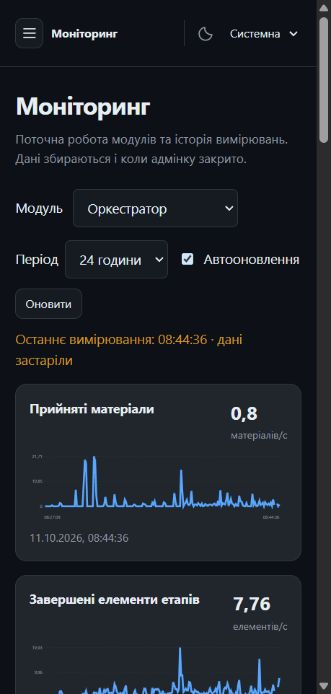
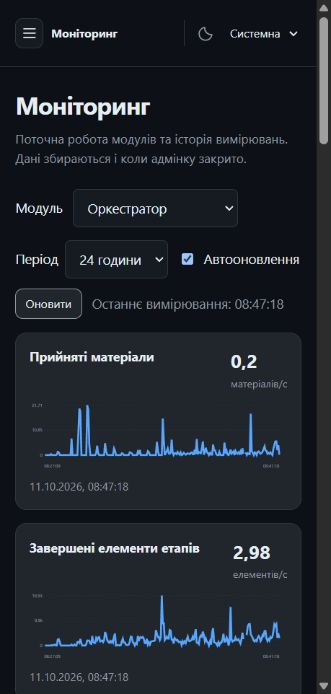
fix(operations): make clean container storage writable and verify persistence

diff --git a/scripts/admin_operations_smoke.py b/scripts/admin_operations_smoke.py
@@ -1,0 +1,79 @@
+"""Verify fresh image/volume ownership, configuration persistence and telemetry without touching a stack."""
+
+from __future__ import annotations
+
+import argparse
+import json
+import subprocess
+import uuid
+
+
+def main() -> None:
+    parser = argparse.ArgumentParser(description=__doc__)
+    parser.add_argument("--image", required=True)
+    parser.add_argument("--settings-module", required=True)
+    args = parser.parse_args()
+    volume = f"jane-wp33-smoke-{uuid.uuid4().hex}"
+    subprocess.run(
+        ["docker", "volume", "create", "--label", "jane.wp=33-smoke", volume], check=True, capture_output=True
+    )
+    program = """
+import json, os
+from pathlib import Path
+from importlib import import_module
+from fastapi.testclient import TestClient
+from jane_kit.operations import Operations
+from jane_kit.service import create_app
+Settings = import_module(os.environ['SMOKE_SETTINGS_MODULE']).Settings
+settings = Settings(host='127.0.0.1')
+assert settings.operations_dir == Path('/var/lib/jane-operations')
+assert os.access(settings.operations_dir, os.W_OK)
+app = create_app(settings, configure_logs=False)
+with TestClient(app) as client:
+    current = client.get('/v1/configuration')
+    assert current.status_code == 200
+    field = next(f for f in current.json()['fields'] if f['path'] == 'settings.operations_max_points')
+    expected = int(os.environ['SMOKE_EXPECTED_POINTS'])
+    assert field['value'] == expected
+    assert not current.json()['pending_restart']
+    sampler = Operations(app, settings, None)
+    sampler.sample()
+    history = client.get('/v1/telemetry').json()
+    assert len(history['samples']) >= int(os.environ['SMOKE_MIN_SAMPLES'])
+    if expected == 720:
+        saved = client.put('/v1/configuration', headers={'If-Match': current.headers['etag']}, json={'values': {'settings.operations_max_points': 721}})
+        assert saved.status_code == 200 and saved.json()['pending_restart']
+    print(json.dumps({'uid': os.getuid(), 'directory_owner': settings.operations_dir.stat().st_uid, 'active_max_points': expected, 'history_points': len(history['samples']), 'pending_restart_at_start': False}))
+"""
+    try:
+        for expected, minimum in [(720, 1), (721, 2)]:
+            subprocess.run(
+                [
+                    "docker",
+                    "run",
+                    "--rm",
+                    "--network",
+                    "none",
+                    "-v",
+                    f"{volume}:/var/lib/jane-operations",
+                    "-e",
+                    f"SMOKE_SETTINGS_MODULE={args.settings_module}",
+                    "-e",
+                    f"SMOKE_EXPECTED_POINTS={expected}",
+                    "-e",
+                    f"SMOKE_MIN_SAMPLES={minimum}",
+                    args.image,
+                    "python",
+                    "-c",
+                    program,
+                ],
+                check=True,
+            )
+    finally:
+        inspected = json.loads(subprocess.check_output(["docker", "volume", "inspect", volume]))[0]
+        if inspected["Name"] == volume and inspected.get("Labels", {}).get("jane.wp") == "33-smoke":
+            subprocess.run(["docker", "volume", "rm", volume], check=True, capture_output=True)
+
+
+if __name__ == "__main__":
+    main()

diff --git a/libs/jane-kit/tests/test_operations.py b/libs/jane-kit/tests/test_operations.py
@@ -1,8 +1,10 @@
 from __future__ import annotations
 
 from pathlib import Path
+from typing import Any
 
 import pytest
+from fastapi import FastAPI
 from fastapi.testclient import TestClient
 from pydantic import Field
 
@@ -20,7 +22,7 @@ class ServiceLimits(Limits):
     engine: Engine = Engine()
 
 
-def make_app(path: Path, **kwargs):
+def make_app(path: Path, **kwargs: Any) -> FastAPI:
     settings = JaneSettings(operations_dir=path, **kwargs)
     limits = resolve_limits(
         ServiceLimits,
@@ -31,7 +33,7 @@ def make_app(path: Path, **kwargs):
     return app
 
 
-def test_configuration_constraints_etag_and_restart(tmp_path):
+def test_configuration_constraints_etag_and_restart(tmp_path: Path) -> None:
     app = make_app(tmp_path)
     with TestClient(app) as client:
         original = client.get("/v1/configuration")
@@ -78,7 +80,7 @@ def test_configuration_constraints_etag_and_restart(tmp_path):
         assert workers["origin"] == "module"
 
 
-def test_scope_and_protected_values(tmp_path):
+def test_scope_and_protected_values(tmp_path: Path) -> None:
     settings = {
         "auth_mode": "api_key",
         "api_keys": [
@@ -113,7 +115,7 @@ def test_scope_and_protected_values(tmp_path):
         )
 
 
-def test_durable_telemetry_and_unknown_metrics(tmp_path):
+def test_durable_telemetry_and_unknown_metrics(tmp_path: Path) -> None:
     app = make_app(tmp_path)
     with TestClient(app) as client:
         client.get("/v1/info")
@@ -137,7 +139,7 @@ def test_durable_telemetry_and_unknown_metrics(tmp_path):
         assert len(client.get("/v1/telemetry").json()["samples"]) >= count
 
 
-def test_reset_inherited_values_requires_restart(tmp_path):
+def test_reset_inherited_values_requires_restart(tmp_path: Path) -> None:
     with TestClient(make_app(tmp_path)) as client:
         tag = client.get("/v1/configuration").headers["etag"]
         client.put(
@@ -162,7 +164,7 @@ def test_reset_inherited_values_requires_restart(tmp_path):
 
 
 @pytest.mark.parametrize("value", [True, "2", 1.5])
-def test_numeric_type_constraints(tmp_path, value):
+def test_numeric_type_constraints(tmp_path: Path, value: bool | str | float) -> None:
     with TestClient(make_app(tmp_path)) as client:
         tag = client.get("/v1/configuration").headers["etag"]
         assert (
@@ -175,7 +177,7 @@ def test_numeric_type_constraints(tmp_path, value):
         )
 
 
-def test_downsample_resolution_retains_history_endpoints(tmp_path):
+def test_downsample_resolution_retains_history_endpoints(tmp_path: Path) -> None:
     import json
     import time
 

diff --git a/libs/jane-kit/src/jane_kit/operations.py b/libs/jane-kit/src/jane_kit/operations.py
@@ -53,7 +53,7 @@ def read_overrides(settings: Any) -> dict[str, Any]:
     path = operations_path(settings) / "operations.sqlite3"
     if not path.exists():
         return {}
-    with closing(sqlite3.connect(path, timeout=5)) as db:
+    with closing(sqlite3.connect(path, timeout=settings.health_check_timeout_ms / 1000)) as db:
         row = db.execute("SELECT document FROM configuration WHERE id=1").fetchone()
     return json.loads(row[0]) if row else {}
 

diff --git a/docs/delivery/WP-33.md b/docs/delivery/WP-33.md
@@ -43,7 +43,22 @@ python .codex/hooks/jane_wp.py check-diff origin/main
 WP-33: 43 changed file(s), 0 outside ownership
 ```
 
-Повний `uv run --no-project python scripts/dev.py check` після rebase запущено; фінальний вивід буде додано після завершення. Так само фінальний contract-guardian і незалежний wp-reviewer завершують перевірку інтегрованого head.
+Повний `uv run --no-project python scripts/dev.py check` після rebase запущено; фінальний вивід буде додано після завершення. Виявлені ним відсутні анотації нових тестів виправлено: `mypy libs/jane-kit` — `Success: no issues found in 46 source files`; operations-тести повторно — `8 passed in 2.74s`. Незалежний wp-reviewer перевіряє виправлення Docker-запуску.
+
+Contract-guardian: **compatible**, `0accbf3`; operations-файли після нього не змінювали контрактів. Фактичний вивід:
+
+```text
+check_contracts.py --require-redocly
+All contract checks passed.
+schemas=18, openapi_documents=9, operations=130,
+openapi_examples=607, schema_examples=47, mock_routes=127
+
+compat.py --base origin/main --oasdiff
+0 breaking, 0 warning(s).
+
+gen-api.mjs --check
+gen-api: 11 generated files are up to date
+```
 
 ## Реальна адмінка
 
@@ -56,13 +71,40 @@ WP-33: 43 changed file(s), 0 outside ownership
 {"before_samples":177,"after_samples":178,"active_max_points":720,"pending_restart":false}
 ```
 
-Перший real Playwright запуск: усі вісім сторінок/форм/діагностики/графіків пройшли; перевірка періодів, паузи та екрана 390×844 пройшла. Сценарій збереження потрапив у перезапуск Assistant під час розгортання, тому повторюється після завершення rollout. Тести не послаблювалися.
+Перший real Playwright запуск потрапив у перезапуск Assistant під час розгортання. Після rollout без зміни тестів отримано:
+
+```text
+all eight module forms load, diagnostics and monitoring show real responses (15.2s)
+saves a draft with ETag, rejects stale writes and restores the original overrides (1.8s)
+period controls, refresh, basic/advanced forms and narrow screens work (2.1s)
+3 passed (20.4s)
+```
+
+Незалежний wp-reviewer сам повторив ці сценарії: **3 passed (18.1s)**. Повний вивід — [live-e2e.txt](WP-33/live-e2e.txt). Після фінального rollout окремо перевірені всі вісім configuration/telemetry API: 200, валідна `resolution_seconds`, `pending_restart=false`; безпечний знімок — [live-readiness.json](WP-33/live-readiness.json). Через браузер також перевірена форма платформних лімітів: правильні числові значення та явне успадкування.
 
 ![Реальний моніторинг](WP-33/live-monitoring.png)
 
 ## Виправлення після рев’ю
 
 Contract-guardian: виправлено reset до baseline, обов’язкові route scopes, UTC `Z`, документацію споживачів, опис PUT і optional resolution; вилучено непідтримуваний `fetch.transport`. Остаточний вердикт буде додано тут.
+
+WP-reviewer 1: виправлено writable operations-каталог та його стандартну env-адресу в Dockerfile всіх восьми модулів і шаблону. Нові томи отримують UID 10001. Boot-reader використовує `health_check_timeout_ms` замість зашитого timeout. Для незалежного від стеку відтворення додано `scripts/admin_operations_smoke.py` (Docker `--network none`, власний позначений том, перевірена адресна очистка).
+
+Фактична перевірка штатного образу Assistant на новому томі, потім у новому контейнері з тим самим томом:
+
+```text
+docker build -f services/assistant/Dockerfile -t jane-wp33-assistant:verified .
+DONE 6.3s
+python scripts/admin_operations_smoke.py --image jane-wp33-assistant:verified --settings-module jane_assistant.settings
+{"uid":10001,"directory_owner":10001,"active_max_points":720,"history_points":2,"pending_restart_at_start":false}
+{"uid":10001,"directory_owner":10001,"active_max_points":721,"history_points":4,"pending_restart_at_start":false}
+ruff check scripts/admin_operations_smoke.py
+All checks passed!
+mypy scripts/admin_operations_smoke.py
+Success: no issues found in 1 source file
+```
+
+Smoke не перезапускає й не змінює `jane-demo`; новий тимчасовий том прибрано після перевірки. Раніше live helper уже створював правильний каталог; виправлення забезпечує також відтворюваність штатної збірки.
 
 ## Запити до інших власників
 

diff --git a/libs/jane-kit/README.md b/libs/jane-kit/README.md
@@ -196,6 +196,12 @@ resolved.effective()  # {"limits": {...}, "provenance": {"crawl.max_depth": "tas
 
 ## Тести
 
+Для operations у Docker образ має створити writable `/var/lib/jane-operations` для користувача сервісу та задати `<PREFIX>OPERATIONS_DIR`. Штатні Dockerfile Jane це роблять; новий named volume успадковує права каталогу. Перевірка нового тому та наступного контейнера без запуску стека:
+
+```text
+python scripts/admin_operations_smoke.py --image jane-wp33-assistant:verified --settings-module jane_assistant.settings
+```
+
 ```
 just test jane-kit
 JANE_CONTRACTS_DIR=<шлях до contracts> just test jane-kit -m contract   # проти контрактів WP-00
